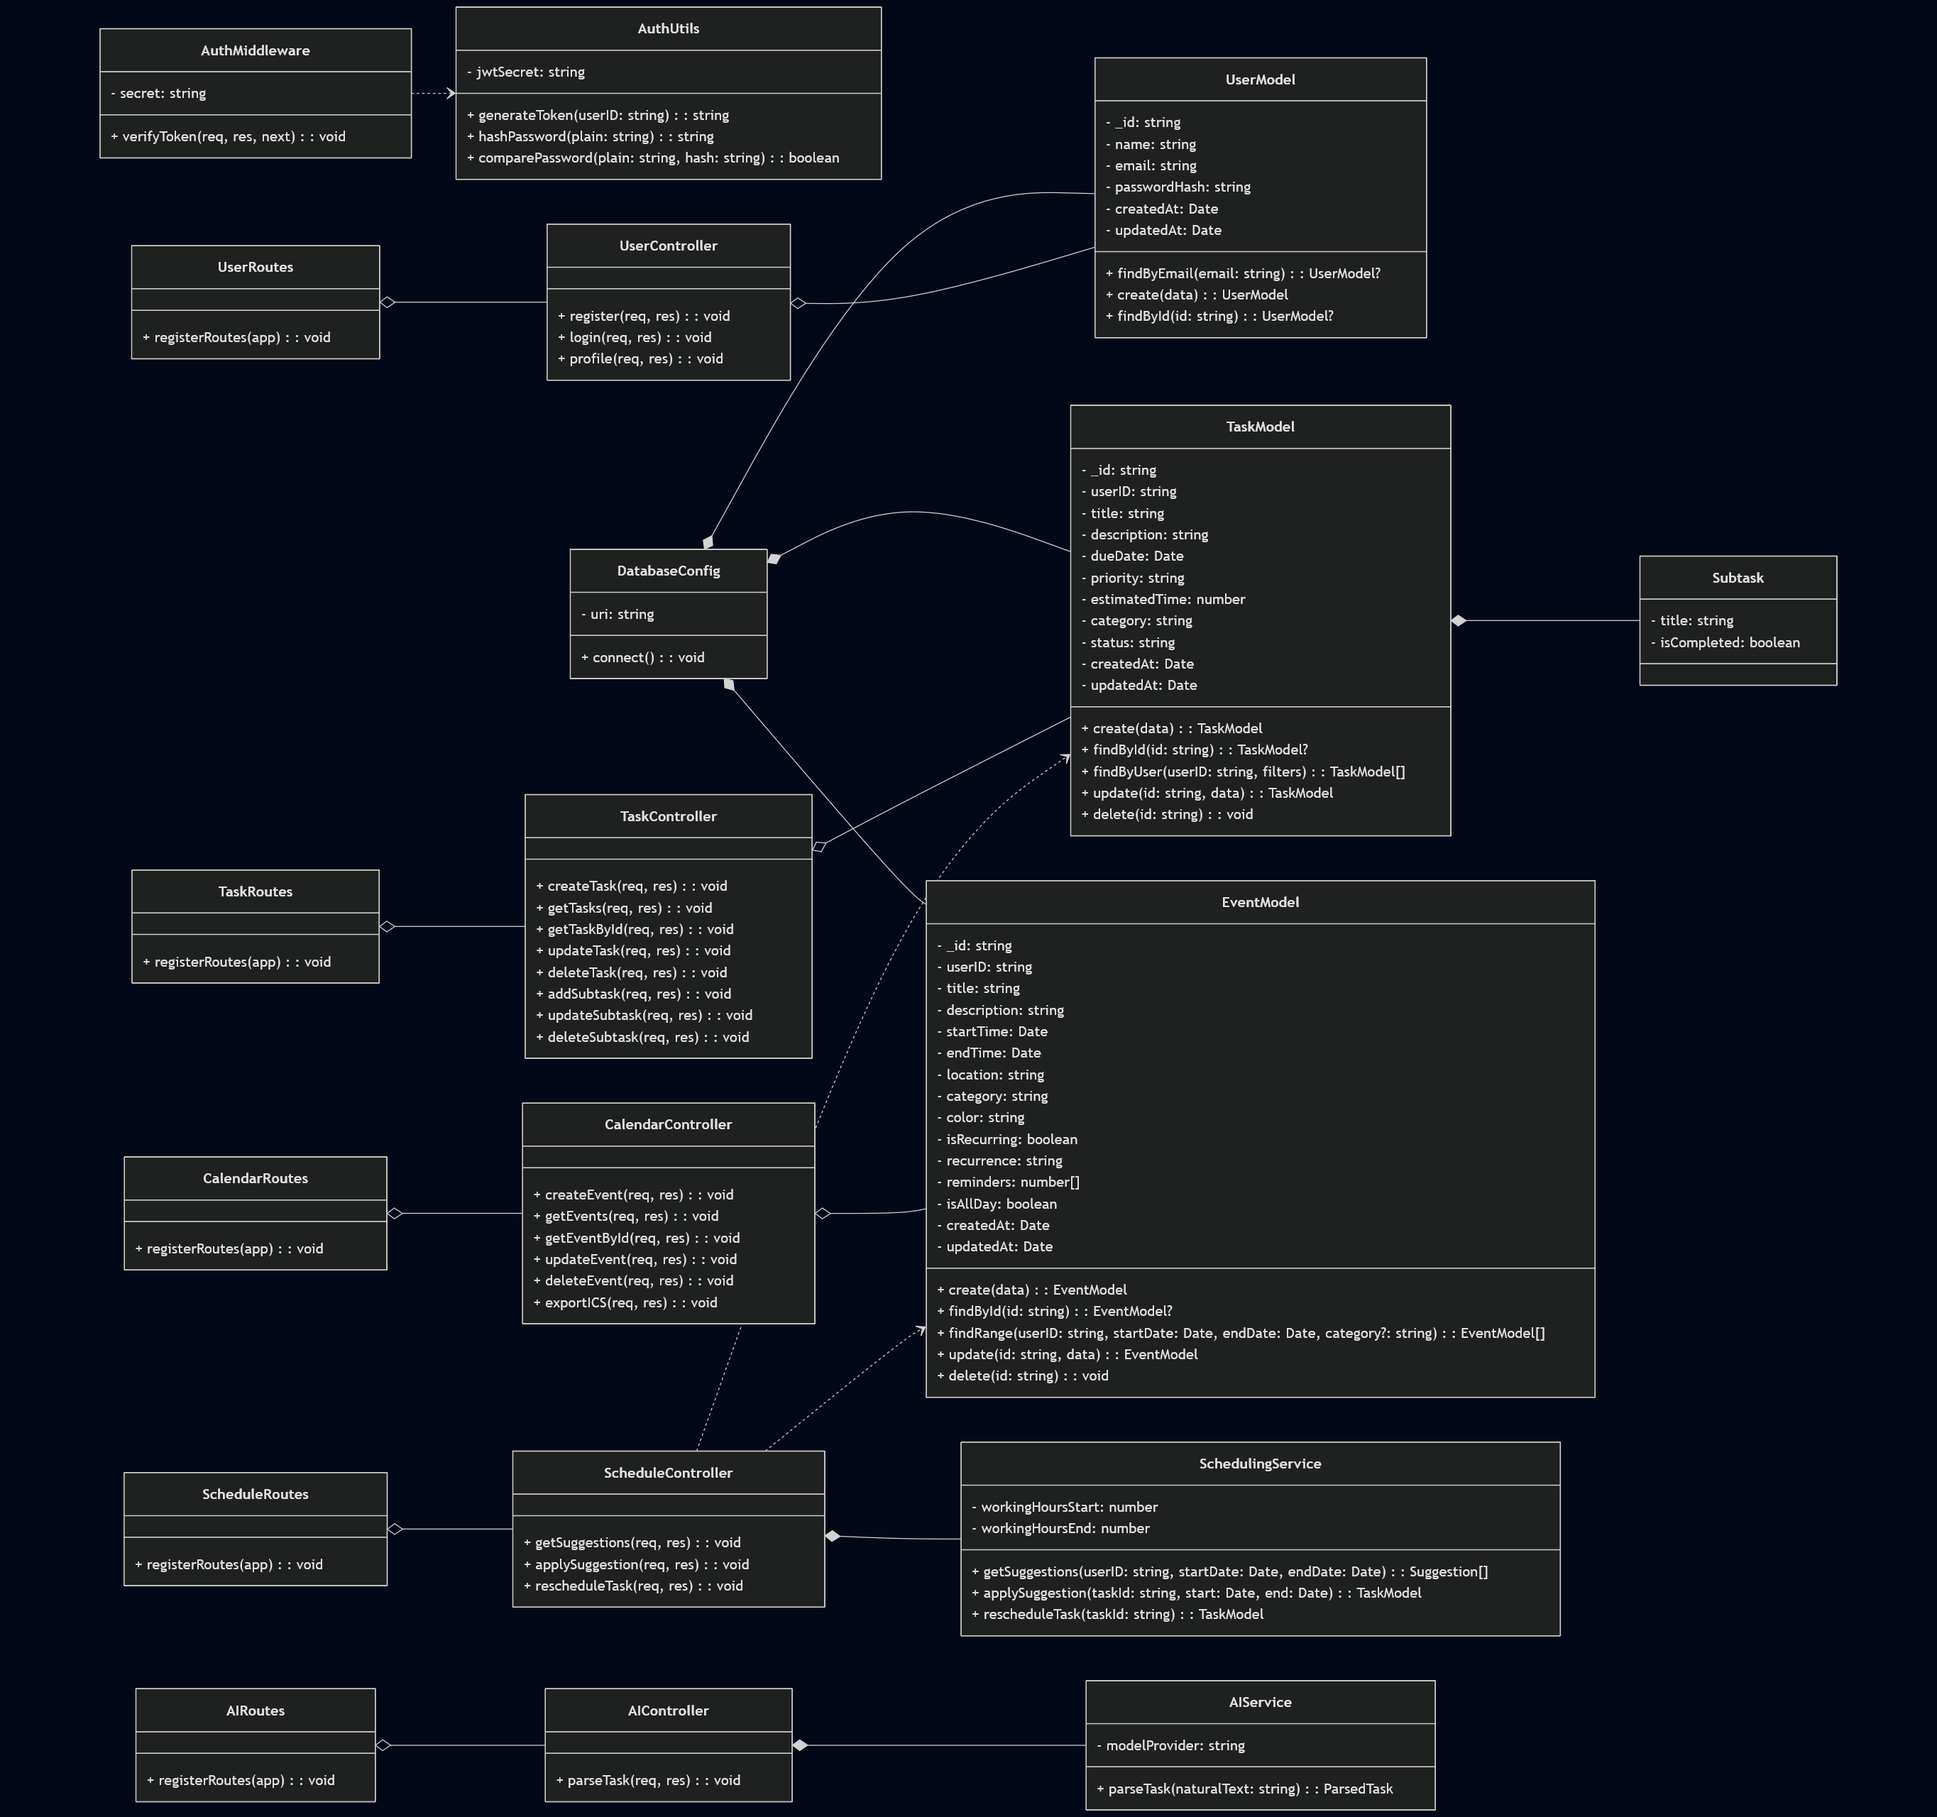
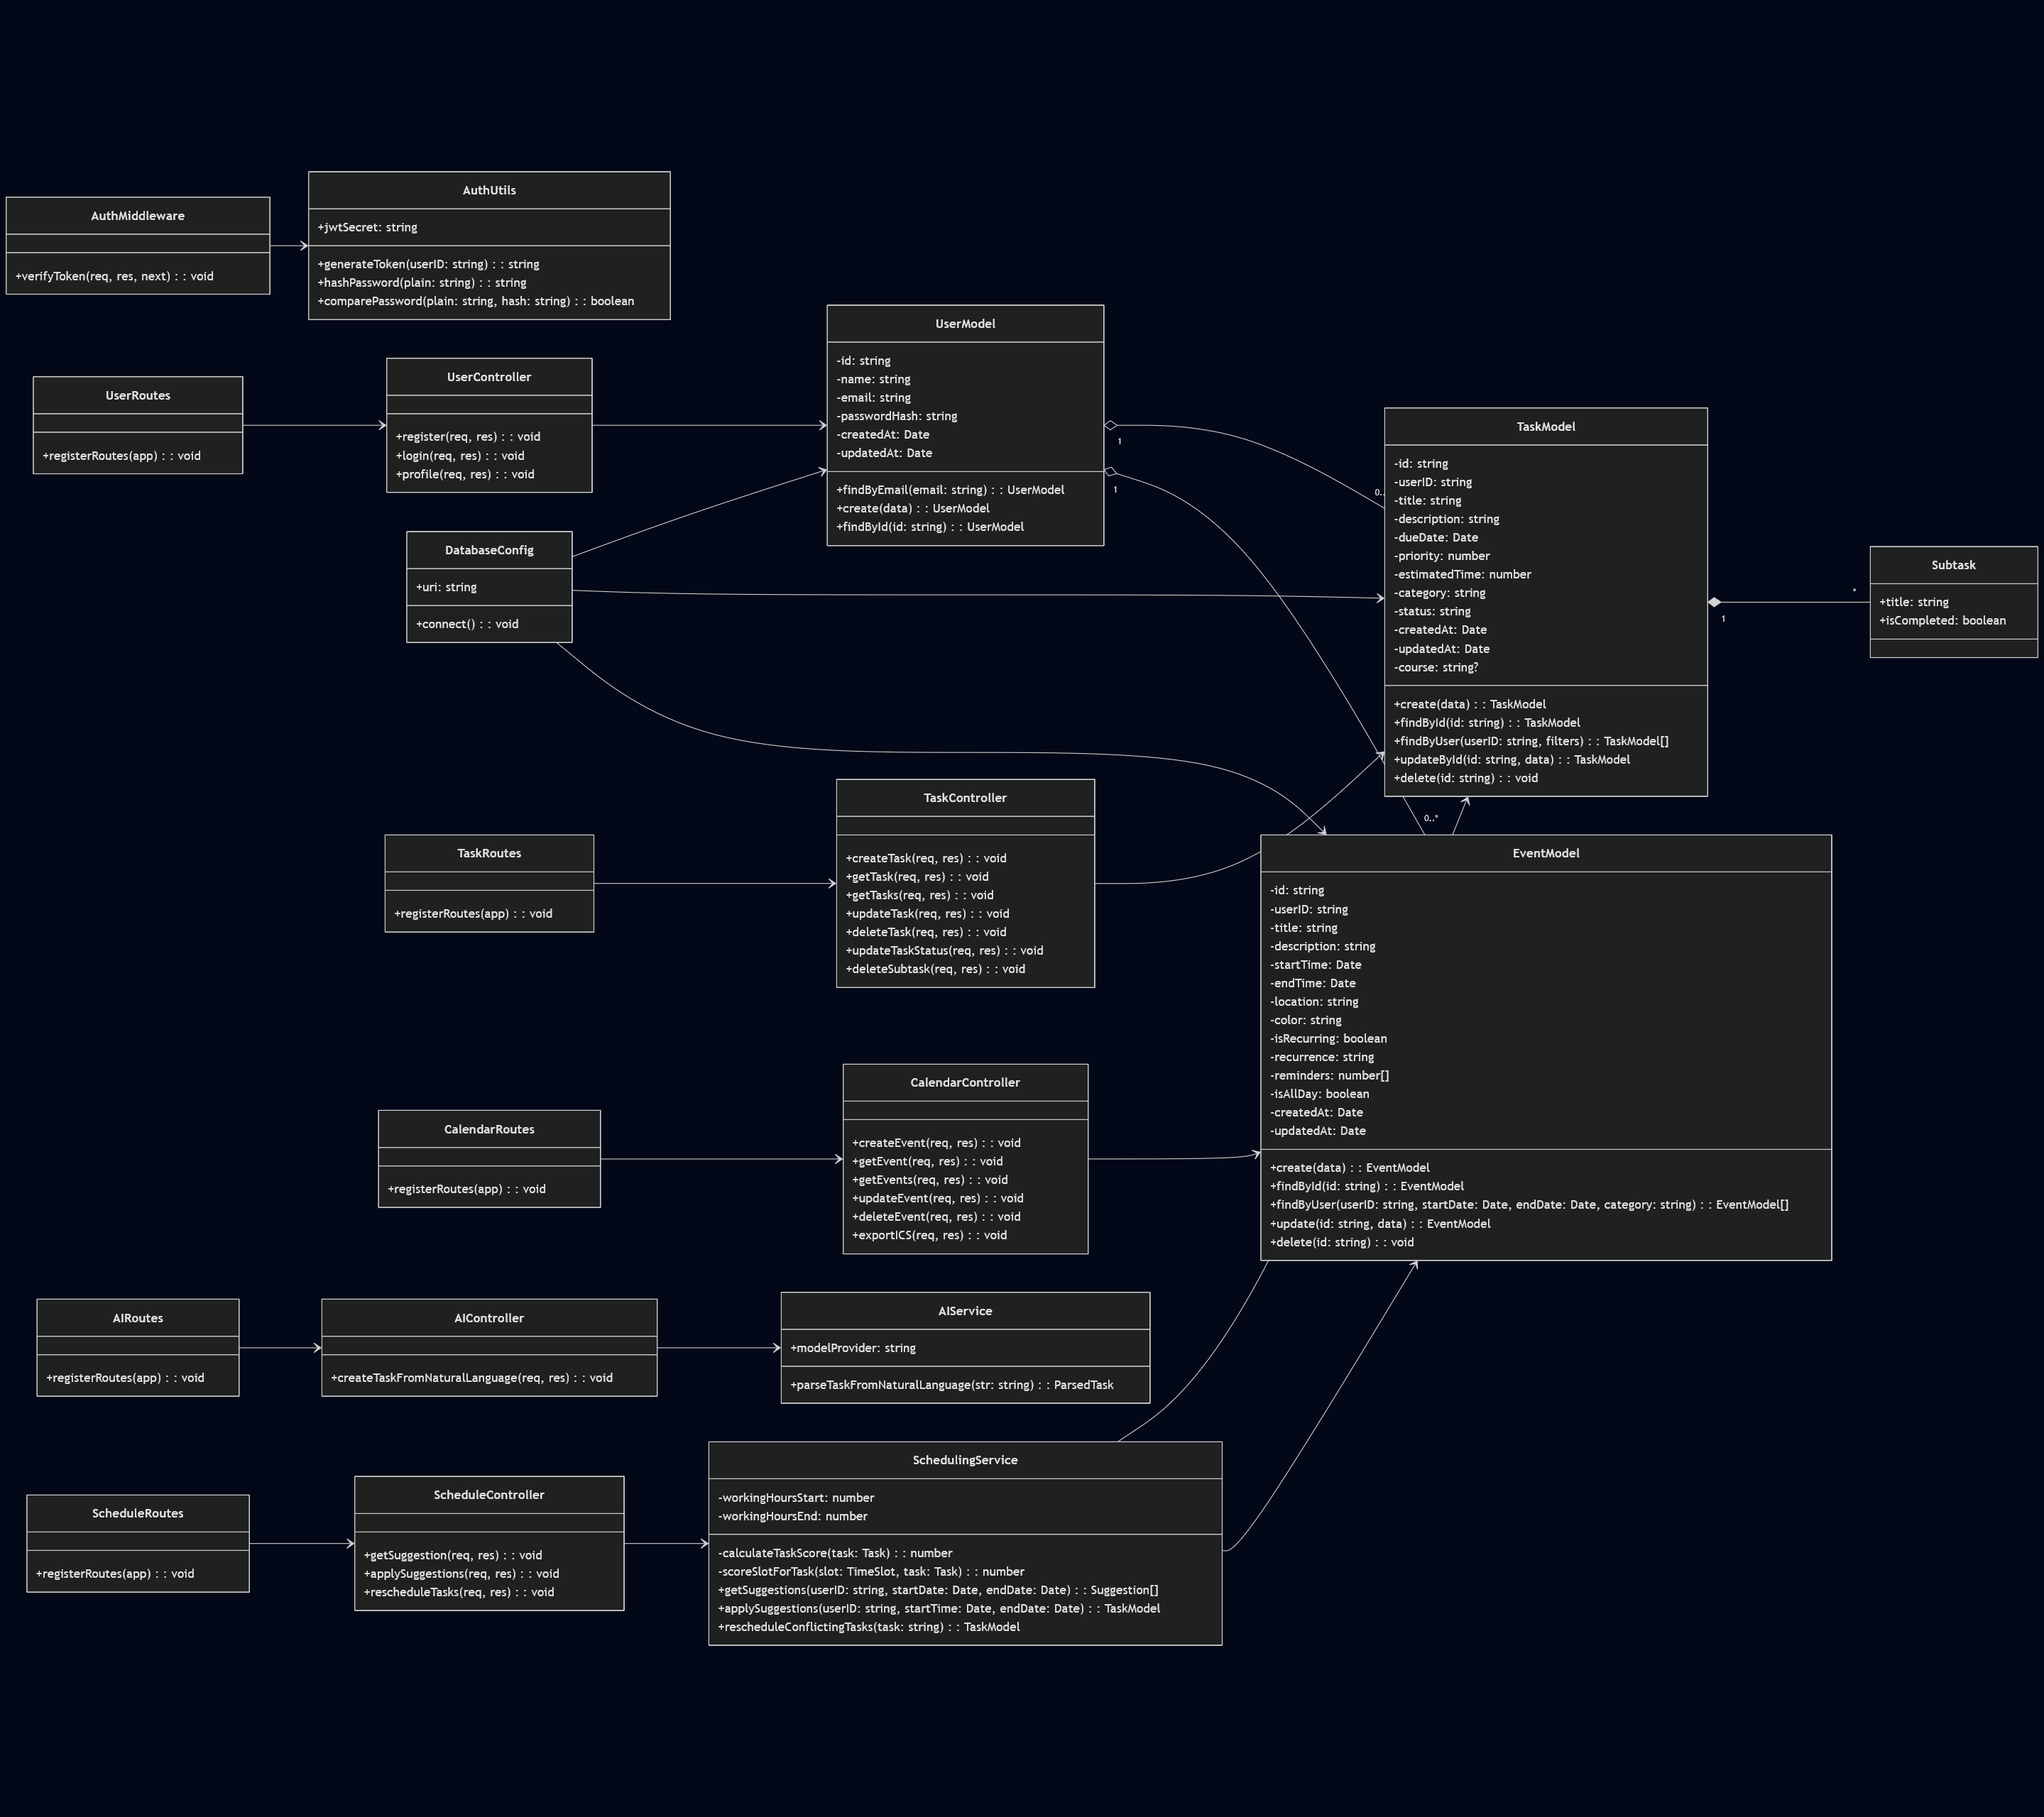
Update UML / codebase to include "course field" on tasks

diff --git a/Backend/src/Utils/Validation.ts b/Backend/src/Utils/Validation.ts
@@ -21,6 +21,7 @@ export const TaskSchema = z.object({
   Description: z.string().optional(),
   DueDate: z.string().optional(),
   Category: z.string().optional(),
+  Course: z.string().optional(),
   Priority: z.enum(['low', 'medium', 'high']).default('medium'),
   EstimatedTime: z.number().min(0).optional(),
   Status: z.enum(['pending', 'in-progress', 'completed']).default('pending'),

diff --git a/Backend/src/Models/Task.ts b/Backend/src/Models/Task.ts
@@ -17,6 +17,7 @@ export interface ITask extends Document {
   Title: string;
   Description?: string;
   Category?: string;
+  Course?: string;
 
   DueDate?: Date;
   
@@ -73,6 +74,10 @@ const TaskSchema = new Schema<ITask>({
     trim: true,
   },
   Description: {
+    type: String,
+    trim: true,
+  },
+  Course: {
     type: String,
     trim: true,
   },
